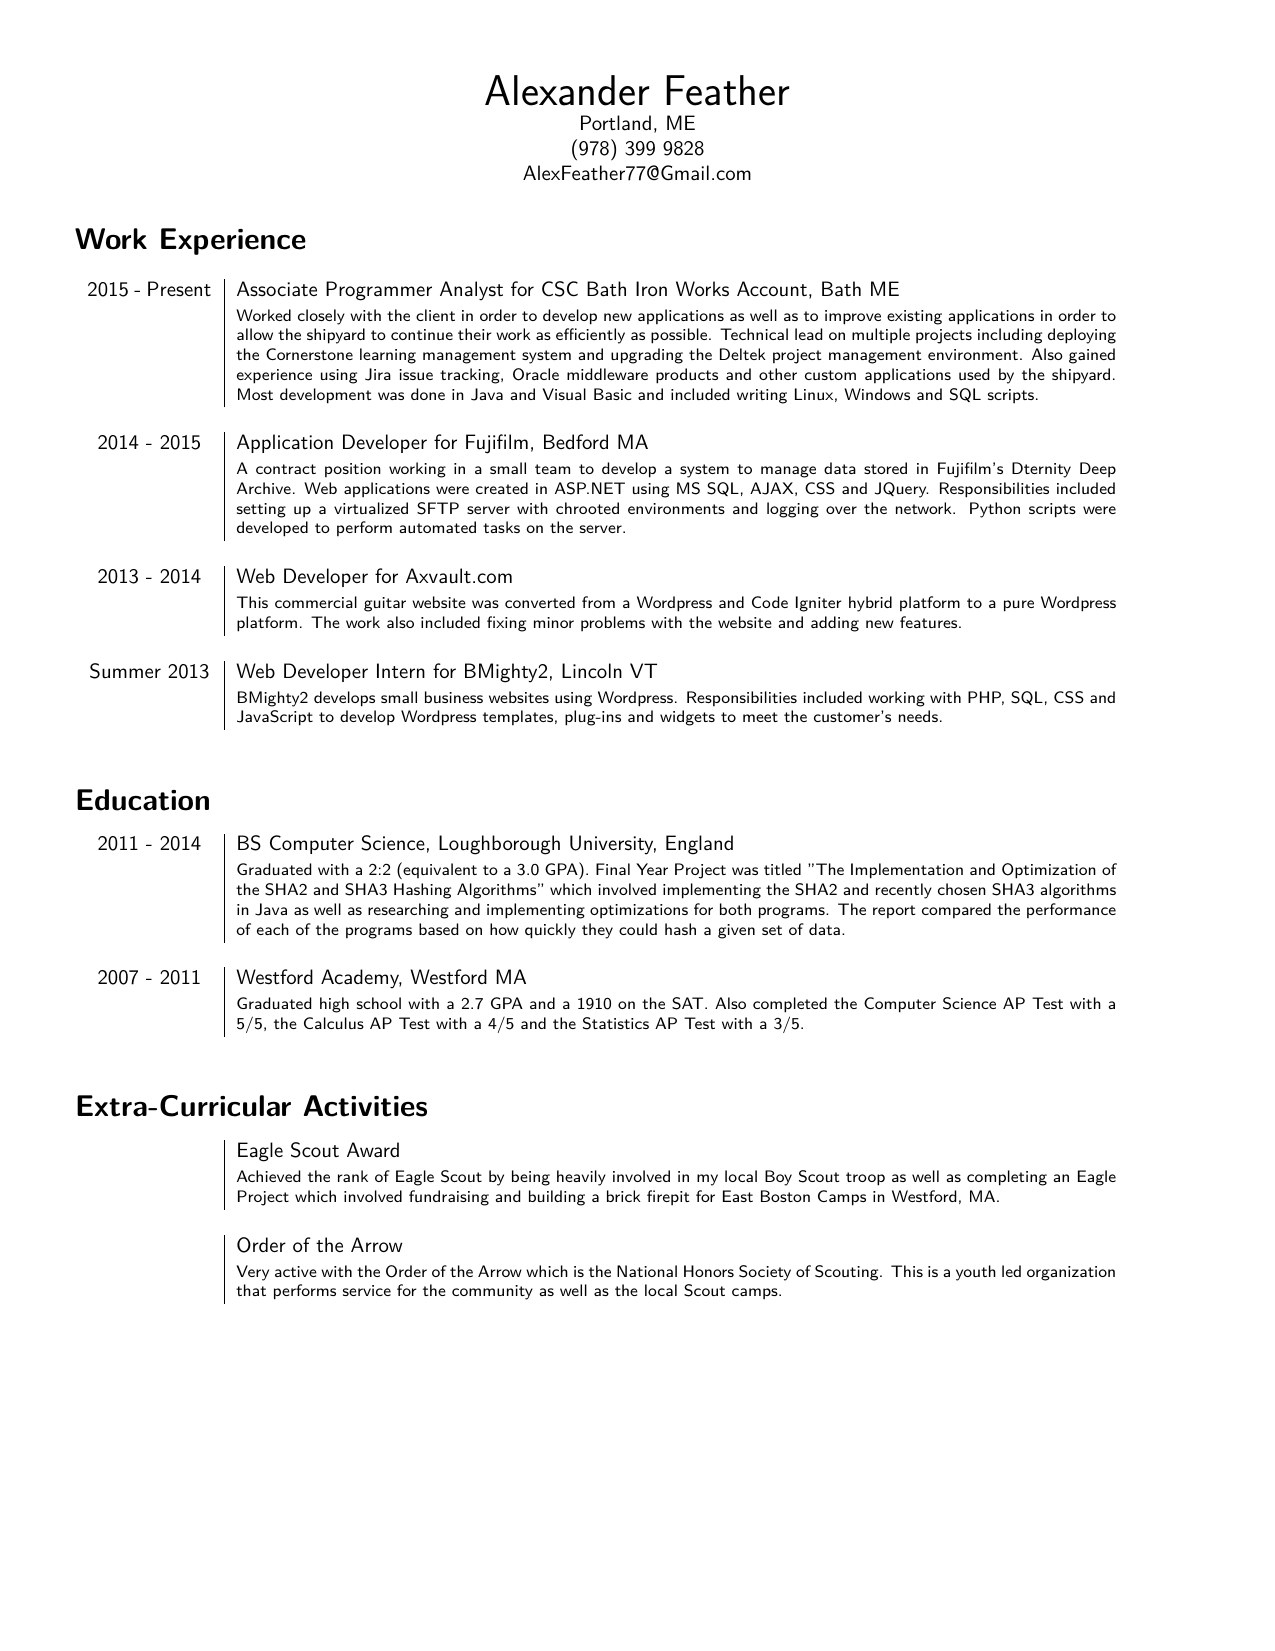
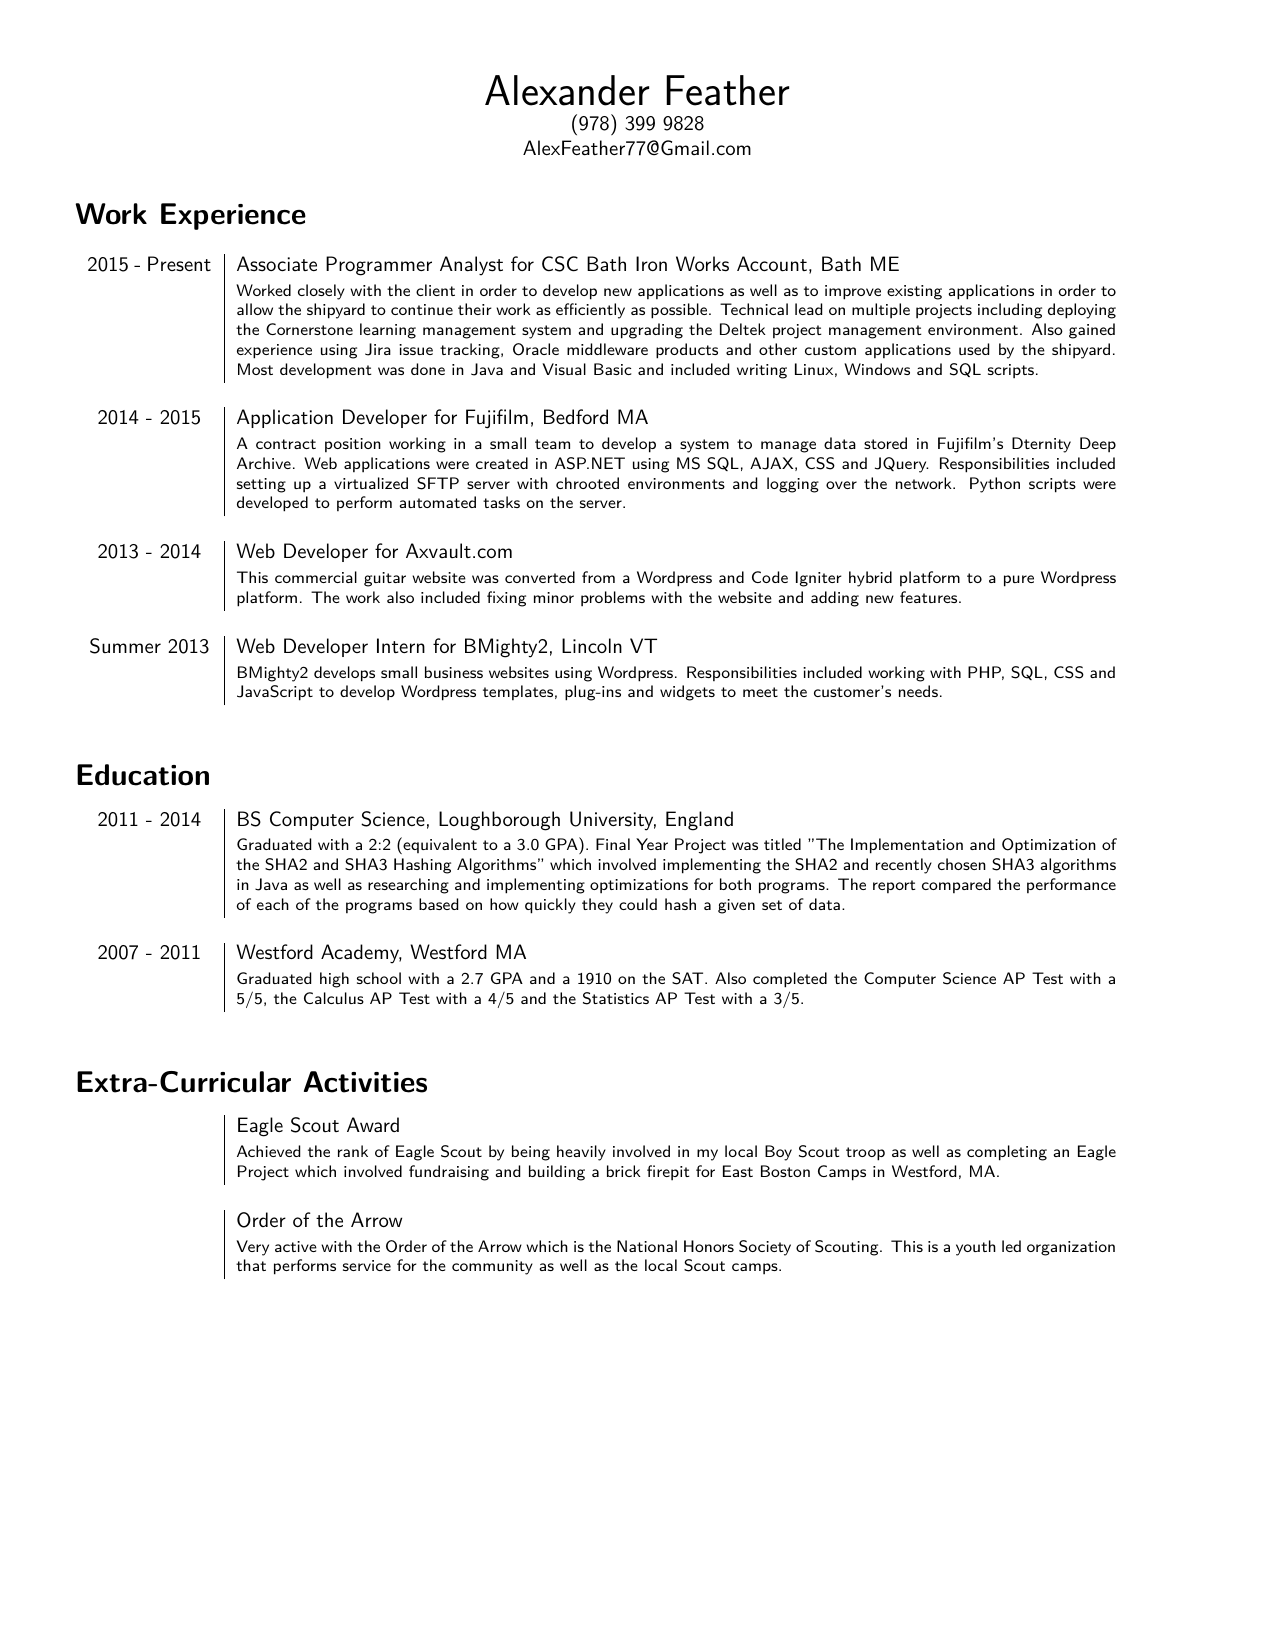
Updated Resume Files

diff --git a/Resume.tex b/Resume.tex
@@ -8,7 +8,7 @@
 \fontfamily{lmss}\selectfont
 
 {\centering{\huge Alexander Feather}\\
-Portland, ME\\(978) 399 9828\\AlexFeather77@Gmail.com\\}
+(978) 399 9828\\AlexFeather77@Gmail.com\\}
 
 \section*{\fontfamily{lmss}\selectfont Work Experience}
 \begin{tabular}{p{2.1cm}|p{14.9cm}}
